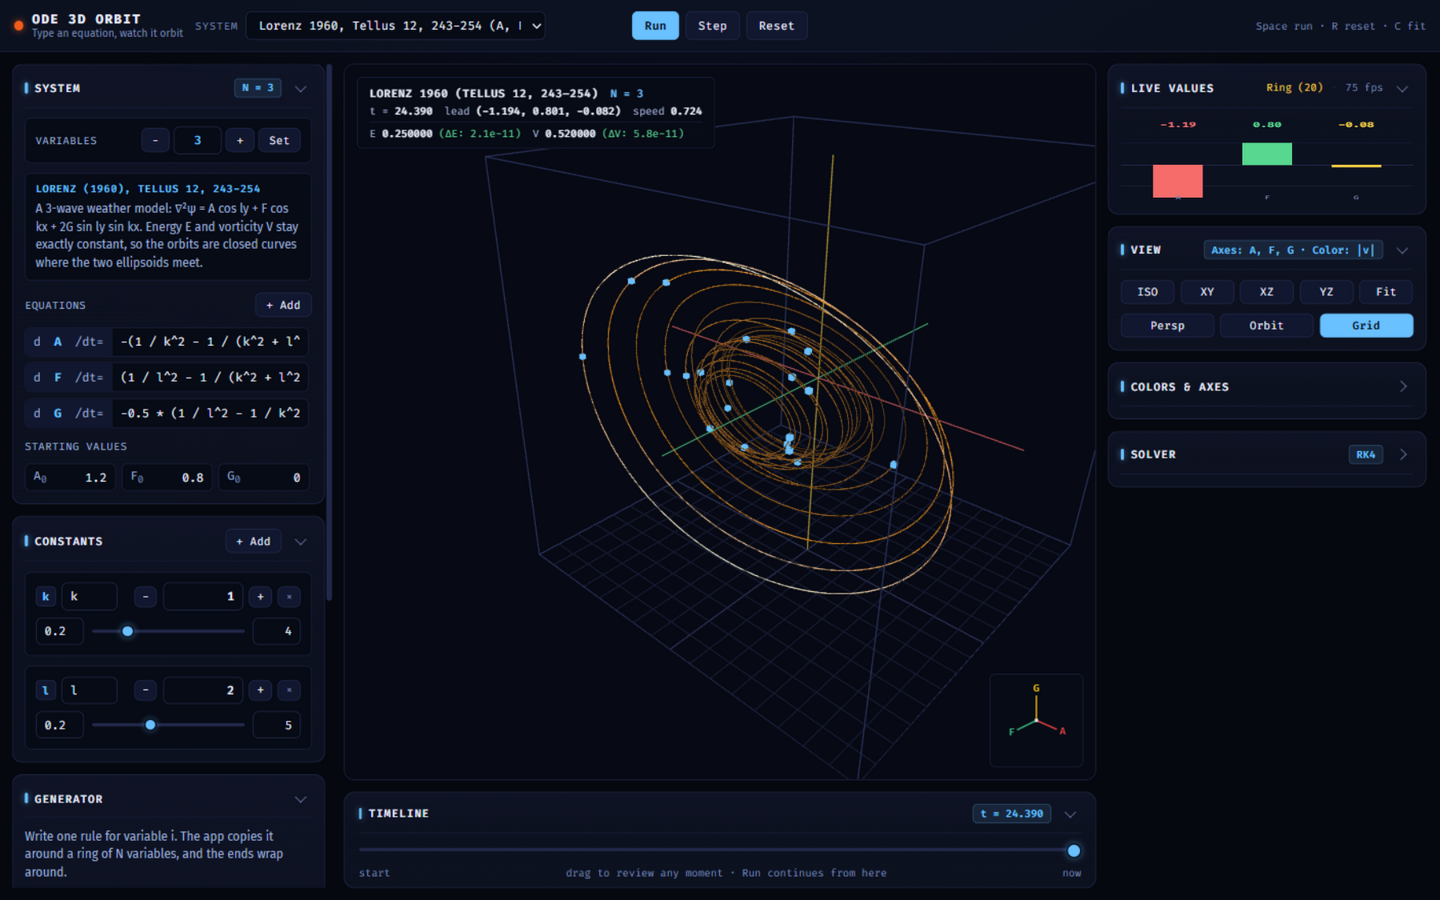
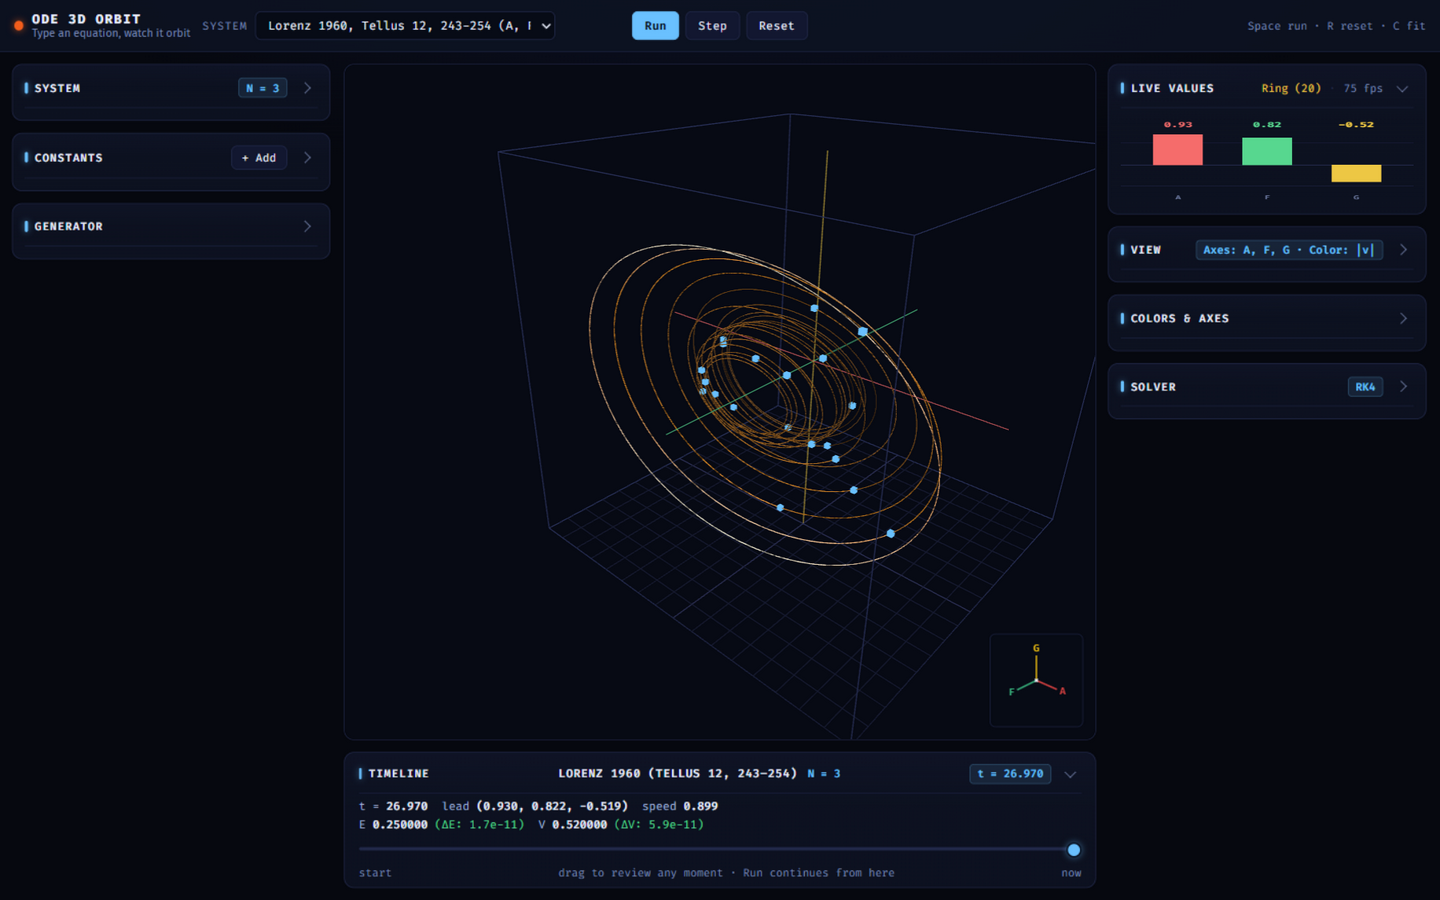
refactor/timeline-card-holds-the-readouts
Move the viewport's floating overlay info into the Timeline card: the
system name, variable count, live time / lead position / speed, and the
Lorenz 1960 conserved-quantity readouts now sit directly above the
scrub slider they describe, tightly stacked with no empty band. The
viewport keeps only the hover probe and the orientation gizmo.

diff --git a/index.html b/index.html
@@ -179,22 +179,6 @@
             <div class="viewport" id="viewport-wrapper">
                 <div id="canvas-container" class="canvas-container"></div>
 
-                <div class="hud" aria-hidden="true">
-                    <div class="hud-row">
-                        <span id="hud-system-title" class="hud-title">Lorenz 1960 (Tellus 12, 243-254)</span>
-                        <span id="hud-dim-tag" class="hud-dim">N = 3</span>
-                    </div>
-                    <div class="hud-row hud-stats">
-                        <span>t = <strong id="hud-time">0.000</strong></span>
-                        <span>lead <strong id="hud-coords">(0.000, 0.000, 0.000)</strong></span>
-                        <span>speed <strong id="hud-speed" class="stat-amber">0.000</strong></span>
-                    </div>
-                    <div id="hud-invariants-row" class="hud-row hud-invariants">
-                        <span>E <strong id="hud-energy">0.000000</strong> <span id="hud-drift-e" class="stat-green">(ΔE: 0.0e+0)</span></span>
-                        <span>V <strong id="hud-enstrophy">0.000000</strong> <span id="hud-drift-v" class="stat-green">(ΔV: 0.0e+0)</span></span>
-                    </div>
-                </div>
-
                 <div id="probe-readout" class="probe hidden" aria-hidden="true">
                     <div class="probe-title">Orbit #<span id="probe-orbit-id">0</span></div>
                     <div id="probe-coords" class="probe-coords">(0.000, 0.000, 0.000)</div>
@@ -208,7 +192,22 @@
             <div class="card timeline-card">
                 <div class="card-head">
                     <h2>Timeline</h2>
+                    <div class="timeline-id">
+                        <span id="hud-system-title" class="hud-title">Lorenz 1960 (Tellus 12, 243-254)</span>
+                        <span id="hud-dim-tag" class="hud-dim">N = 3</span>
+                    </div>
                     <span id="timeline-readout" class="card-tag">t = 0.000</span>
+                </div>
+                <div class="timeline-stats">
+                    <div class="hud-row hud-stats">
+                        <span>t = <strong id="hud-time">0.000</strong></span>
+                        <span>lead <strong id="hud-coords">(0.000, 0.000, 0.000)</strong></span>
+                        <span>speed <strong id="hud-speed" class="stat-amber">0.000</strong></span>
+                    </div>
+                    <div id="hud-invariants-row" class="hud-row hud-invariants">
+                        <span>E <strong id="hud-energy">0.000000</strong> <span id="hud-drift-e" class="stat-green">(ΔE: 0.0e+0)</span></span>
+                        <span>V <strong id="hud-enstrophy">0.000000</strong> <span id="hud-drift-v" class="stat-green">(ΔV: 0.0e+0)</span></span>
+                    </div>
                 </div>
                 <input type="range" id="timeline-slider" min="0" max="0" step="1" value="0" aria-label="Scrub through the recorded run">
                 <div class="row-between timeline-labels">

diff --git a/css/styles.css b/css/styles.css
@@ -735,40 +735,16 @@ input[type="range"]:hover::-moz-range-thumb {
 .canvas-container { width: 100%; height: 100%; }
 .canvas-container canvas { display: block; }
 
-.hud {
-    position: absolute;
-    top: 12px;
-    left: 12px;
-    pointer-events: none;
-    font-family: var(--font-mono);
-    font-size: 11px;
-    background: rgba(6, 11, 22, 0.82);
-    border: 1px solid var(--border-soft);
-    border-radius: var(--radius-sm);
-    padding: 8px 12px;
-    display: flex;
-    flex-direction: column;
-    gap: 4px;
-    max-width: calc(100% - 24px);
-    backdrop-filter: blur(4px);
-}
-.hud-row { display: flex; align-items: center; gap: 12px; white-space: nowrap; }
-.hud-title { font-weight: 600; text-transform: uppercase; letter-spacing: 0.05em; }
-.hud-dim { color: var(--accent); font-weight: 600; }
-.hud-stats { font-size: 11px; color: var(--text-2); font-variant-numeric: tabular-nums; }
+.stat-amber { color: var(--warn); }
+.hud-row { display: flex; align-items: center; gap: 14px; white-space: nowrap; }
+.hud-title { font-family: var(--font-mono); font-weight: 600; text-transform: uppercase; letter-spacing: 0.05em; color: var(--text); }
+.hud-dim { font-family: var(--font-mono); color: var(--accent); font-weight: 600; font-size: 11px; }
+.hud-stats { font-family: var(--font-mono); font-size: 11.5px; color: var(--text-2); font-variant-numeric: tabular-nums; flex-wrap: wrap; row-gap: 2px; }
 .hud-stats strong { color: var(--text); font-weight: 600; }
-.hud-invariants {
-    border-top: 1px solid var(--border-soft);
-    padding-top: 4px;
-    font-size: 11px;
-    color: var(--text-2);
-    font-variant-numeric: tabular-nums;
-    flex-wrap: wrap;
-    row-gap: 2px;
-}
+.hud-invariants { font-family: var(--font-mono); font-size: 11.5px; color: var(--text-2); font-variant-numeric: tabular-nums; flex-wrap: wrap; row-gap: 2px; }
 .hud-invariants strong { color: var(--text); font-weight: 600; }
 .hud-invariants.hidden { display: none; }
-.stat-amber { color: var(--warn); }
+.stat-green { color: var(--good); }
 .stat-green { color: var(--good); }
 
 .probe {
@@ -799,6 +775,30 @@ input[type="range"]:hover::-moz-range-thumb {
     pointer-events: none;
 }
 .gizmo-wrap canvas { display: block; }
+
+/* ---------- Timeline card (also the info strip) ---------- */
+.timeline-id {
+    display: flex;
+    align-items: center;
+    gap: 10px;
+    margin-right: auto;
+    min-width: 0;
+}
+.timeline-id .hud-title {
+    font-size: 11.5px;
+    white-space: nowrap;
+    overflow: hidden;
+    text-overflow: ellipsis;
+}
+.timeline-stats {
+    display: flex;
+    flex-direction: column;
+    gap: 3px;
+}
+.timeline-card {
+    gap: 8px;
+    padding-bottom: 10px;
+}
 
 /* ---------- Timeline card ---------- */
 .timeline-card {
